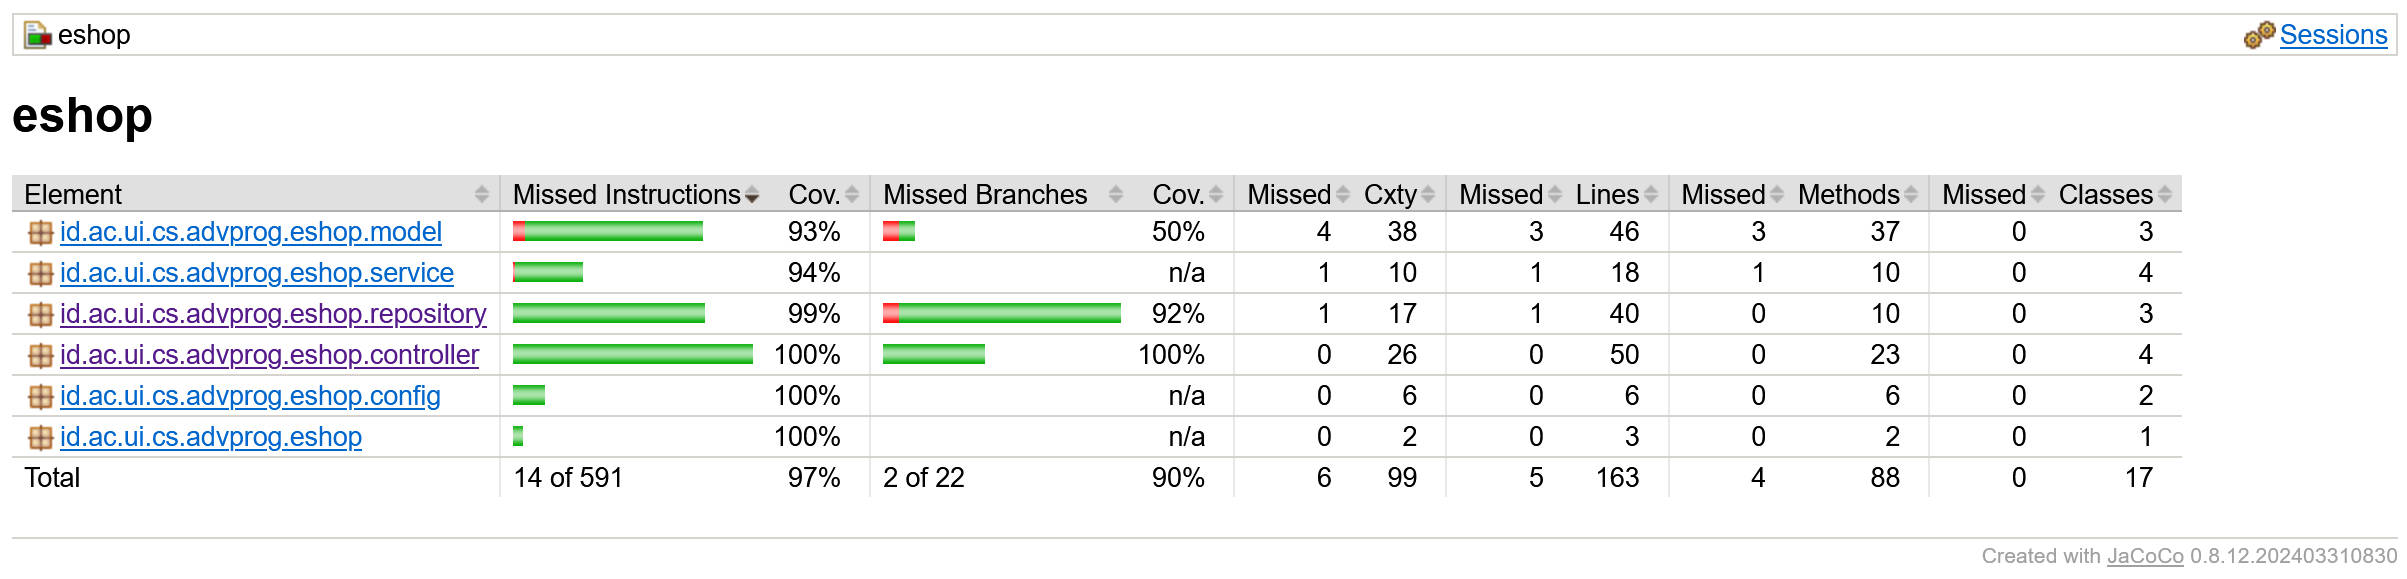
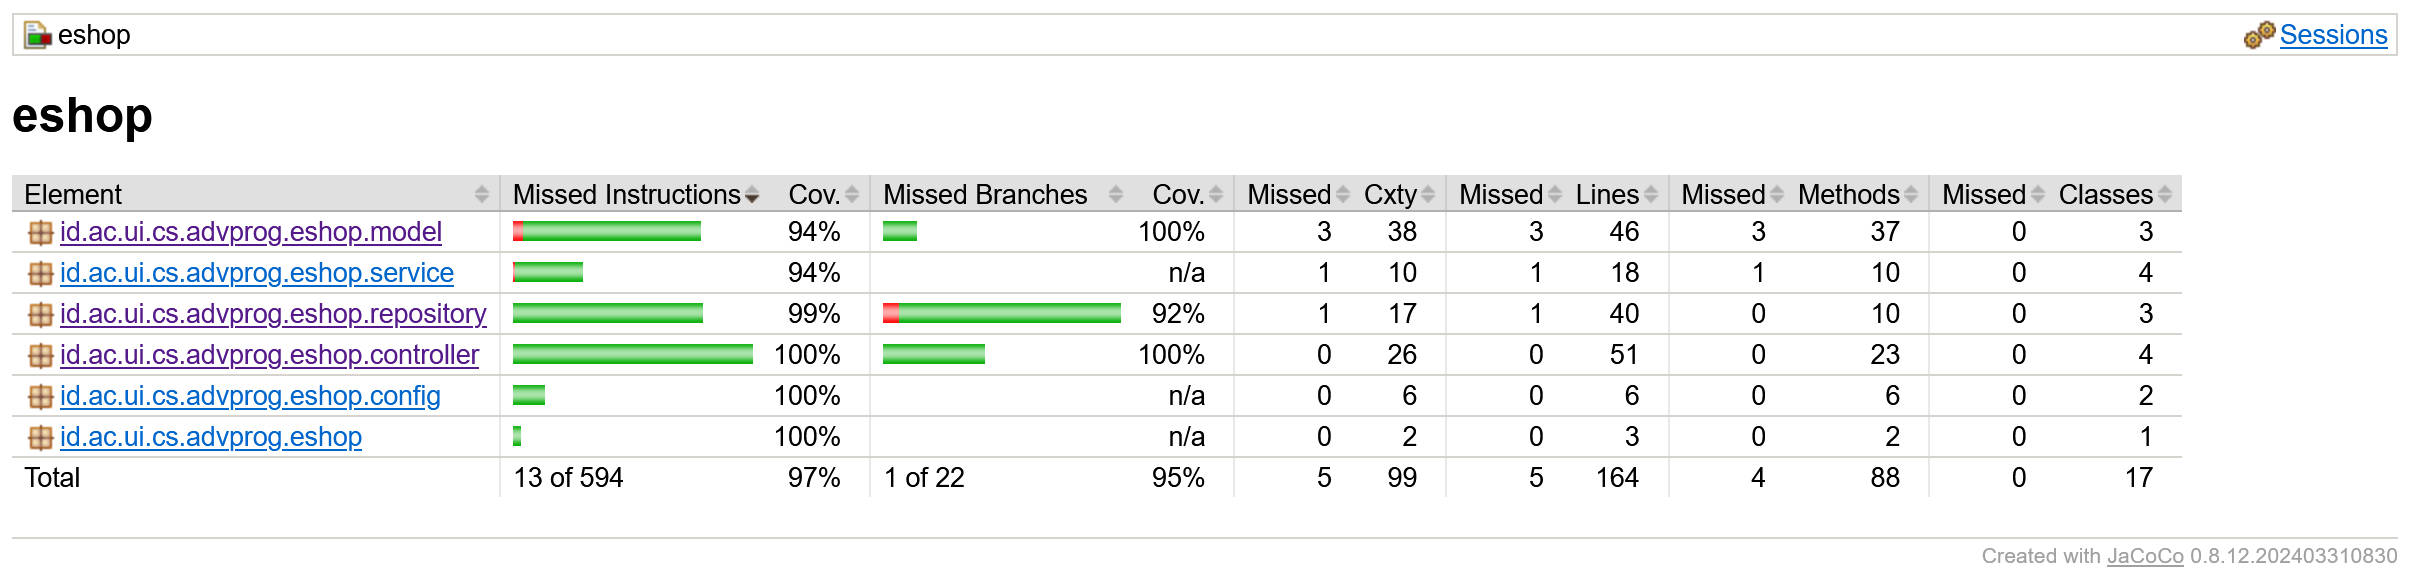
refactor: streamline edit handling in AbstractItemController; enhance CarControllerTest with update failure scenario and add ProductTest cases for quantity retrieval

diff --git a/src/test/java/id/ac/ui/cs/advprog/eshop/controller/CarControllerTest.java b/src/test/java/id/ac/ui/cs/advprog/eshop/controller/CarControllerTest.java
@@ -1,24 +1,26 @@
 package id.ac.ui.cs.advprog.eshop.controller;
 
-import id.ac.ui.cs.advprog.eshop.model.Car;
-import id.ac.ui.cs.advprog.eshop.service.CarService;
+import java.util.Arrays;
+import java.util.List;
 
-import org.junit.jupiter.api.BeforeEach;
 import org.junit.jupiter.api.Test;
-import org.mockito.InjectMocks;
-import org.mockito.Mock;
+import static org.mockito.ArgumentMatchers.any;
+import static org.mockito.Mockito.times;
+import static org.mockito.Mockito.verify;
+import static org.mockito.Mockito.when;
 import org.springframework.beans.factory.annotation.Autowired;
 import org.springframework.boot.test.autoconfigure.web.servlet.WebMvcTest;
 import org.springframework.boot.test.mock.mockito.MockBean;
 import org.springframework.test.web.servlet.MockMvc;
+import static org.springframework.test.web.servlet.request.MockMvcRequestBuilders.get;
+import static org.springframework.test.web.servlet.request.MockMvcRequestBuilders.post;
+import static org.springframework.test.web.servlet.result.MockMvcResultMatchers.model;
+import static org.springframework.test.web.servlet.result.MockMvcResultMatchers.redirectedUrl;
+import static org.springframework.test.web.servlet.result.MockMvcResultMatchers.status;
+import static org.springframework.test.web.servlet.result.MockMvcResultMatchers.view;
 
-import java.util.Arrays;
-import java.util.List;
-
-import static org.mockito.ArgumentMatchers.any;
-import static org.mockito.Mockito.*;
-import static org.springframework.test.web.servlet.request.MockMvcRequestBuilders.*;
-import static org.springframework.test.web.servlet.result.MockMvcResultMatchers.*;
+import id.ac.ui.cs.advprog.eshop.model.Car;
+import id.ac.ui.cs.advprog.eshop.service.CarService;
 
 @WebMvcTest(CarController.class)
 class CarControllerTest {
@@ -35,6 +37,22 @@ class CarControllerTest {
                 .andExpect(status().isOk())
                 .andExpect(view().name("createCar"))
                 .andExpect(model().attributeExists("car"));
+    }
+
+    @Test
+    void editCarPost_whenUpdateFails_shouldStillRedirect() throws Exception {
+        // Mock service to return null when update fails
+        when(carService.update(any(Car.class))).thenReturn(null);
+        
+        mockMvc.perform(post("/car/edit")
+                .param("carId", "test-id")
+                .param("carName", "Invalid Car")
+                .param("carColor", "Red")
+                .param("carQuantity", "10"))
+                .andExpect(status().is3xxRedirection())
+                .andExpect(redirectedUrl("list"));
+        
+        verify(carService, times(1)).update(any(Car.class));
     }
 
     @Test

diff --git a/src/test/java/id/ac/ui/cs/advprog/eshop/service/ProductServiceImplTest.java b/src/test/java/id/ac/ui/cs/advprog/eshop/service/ProductServiceImplTest.java
@@ -1,20 +1,24 @@
 package id.ac.ui.cs.advprog.eshop.service;
 
-import id.ac.ui.cs.advprog.eshop.model.Product;
-import id.ac.ui.cs.advprog.eshop.repository.ItemRepository;
+import java.util.ArrayList;
+import java.util.List;
+
+import static org.junit.jupiter.api.Assertions.assertEquals;
+import static org.junit.jupiter.api.Assertions.assertNotNull;
+import static org.junit.jupiter.api.Assertions.assertNull;
+import static org.junit.jupiter.api.Assertions.assertTrue;
 import org.junit.jupiter.api.BeforeEach;
 import org.junit.jupiter.api.Test;
 import org.junit.jupiter.api.extension.ExtendWith;
+import static org.mockito.ArgumentMatchers.any;
 import org.mockito.Mock;
+import static org.mockito.Mockito.times;
+import static org.mockito.Mockito.verify;
+import static org.mockito.Mockito.when;
 import org.mockito.junit.jupiter.MockitoExtension;
 
-import java.util.ArrayList;
-import java.util.Iterator;
-import java.util.List;
-
-import static org.junit.jupiter.api.Assertions.*;
-import static org.mockito.ArgumentMatchers.any;
-import static org.mockito.Mockito.*;
+import id.ac.ui.cs.advprog.eshop.model.Product;
+import id.ac.ui.cs.advprog.eshop.repository.ItemRepository;
 
 @ExtendWith(MockitoExtension.class)
 class ProductServiceImplTest {

diff --git a/src/test/java/id/ac/ui/cs/advprog/eshop/model/ProductTest.java b/src/test/java/id/ac/ui/cs/advprog/eshop/model/ProductTest.java
@@ -1,8 +1,8 @@
 package id.ac.ui.cs.advprog.eshop.model;
 
+import static org.junit.jupiter.api.Assertions.assertEquals;
 import org.junit.jupiter.api.BeforeEach;
 import org.junit.jupiter.api.Test;
-import static org.junit.jupiter.api.Assertions.*;
 
 class ProductTest {
     Product product;
@@ -58,5 +58,25 @@ class ProductTest {
         this.product.setQuantity(200);
         assertEquals(200, this.product.getQuantity());
         assertEquals(200, this.product.getProductQuantity());
+    }
+
+    @Test
+    void getQuantity_whenProductQuantityIsNull_shouldReturnZero() {
+        // Create product with null quantity
+        Product product = new Product();
+        // Don't set productQuantity, so it stays null
+        
+        // Test the getQuantity method
+        assertEquals(0, product.getQuantity());
+    }
+    
+    @Test
+    void getQuantity_whenProductQuantityIsNotNull_shouldReturnQuantity() {
+        // Create product with non-null quantity
+        Product product = new Product();
+        product.setProductQuantity(10);
+        
+        // Test the getQuantity method
+        assertEquals(10, product.getQuantity());
     }
 }

diff --git a/src/main/java/id/ac/ui/cs/advprog/eshop/controller/AbstractItemController.java b/src/main/java/id/ac/ui/cs/advprog/eshop/controller/AbstractItemController.java
@@ -52,7 +52,8 @@ public abstract class AbstractItemController<T extends Item> {
     }
     
     protected String editPage(String id, Model model) {
-        model.addAttribute(itemAttribute, itemService.findById(id));
+        T item = itemService.findById(id);
+        model.addAttribute(itemAttribute, item);
         return editView;
     }
     
